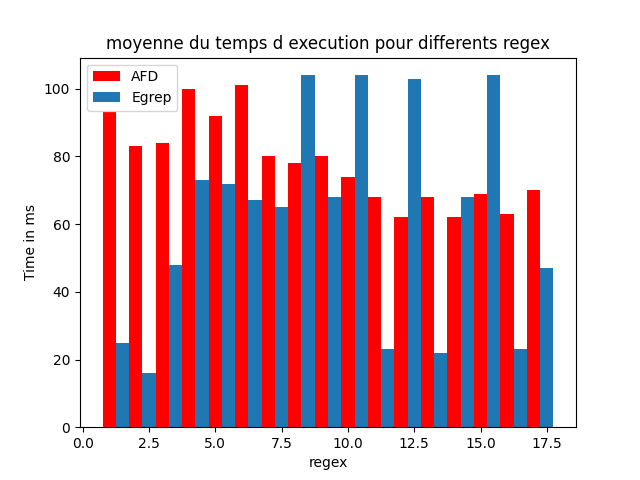
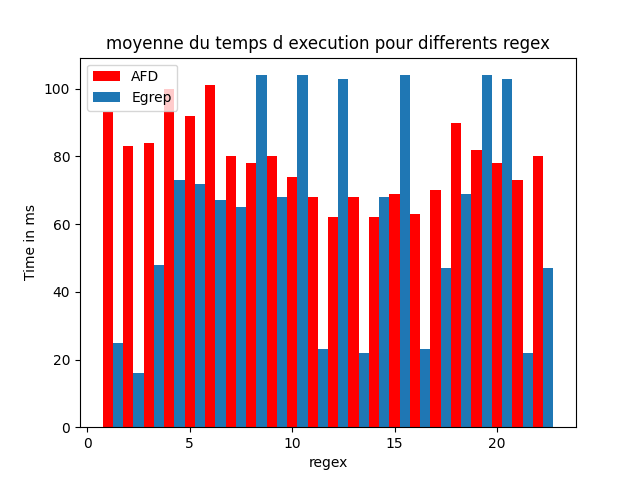
update experimental

Changed region(s): [[0.1562, 0.1562, 0.875, 0.9375], [0.0938, 0.9062, 0.1562, 0.9375]]

diff --git a/tme1/regex/src/main/java/com/daar/reconnaissance/Reconnaissance.java b/tme1/regex/src/main/java/com/daar/reconnaissance/Reconnaissance.java
@@ -81,10 +81,59 @@ public class Reconnaissance{
      */
     public static  void experimental(String fileName,int nbr_dupliquer) {
         //testTailleAutomate();
-
         testDureeRechercheAutomate(fileName,nbr_dupliquer);
     }
 
+    public static  void experimental_avrg(String regex,int nbr_dupliquer) throws IOException {
+        long totale_egrep=0;
+        long totale_afd=0;
+        int nb_files=10;
+        String regEx = regex;
+        long file_size=0;
+        BufferedWriter writer3 = new BufferedWriter(new FileWriter("Results/Time_AFD_average.txt",true));
+        BufferedWriter writer4 = new BufferedWriter(new FileWriter("Results/Time_Egrep_average.txt",true));
+        for (int i= 0; i<nb_files; i++){
+            String file_test="/Users/linaazerouk/Documents/M2/Daar/projet1Daar/DAAR/tme1/regex/Results/test_files/testfile"+i+".txt";     
+            file_size= new File(file_test).length();
+           
+                for (int x=0;x<=nbr_dupliquer; x++){ 
+                    try {
+                        //Time for Egrep
+                        ProcessBuilder processBuilder = new ProcessBuilder("egrep",regEx,file_test);
+                        long startTime = System.currentTimeMillis();
+                        processBuilder.redirectErrorStream(true);
+                        Process process = processBuilder.start();
+                        int exitCode = process.waitFor();
+                        long endTime = System.currentTimeMillis(); 
+                        long executionTime = endTime - startTime;
+                        totale_egrep= executionTime+totale_egrep;
+
+                        //Time for AFD:
+                        long t0 = System.currentTimeMillis();
+                        FileReader fileReader = new FileReader(file_test);
+                        BufferedReader bufferedReader = new BufferedReader(fileReader);
+                        IAutomate automate = new AutomateBuilder().buildFromRegex(regEx);
+                        String ligne;
+                        while ((ligne = bufferedReader.readLine()) != null) {
+                            if (match(ligne, automate))
+                            System.out.println(ligne);
+                        }
+                        bufferedReader.close();
+                        fileReader.close();
+                        long t1 = System.currentTimeMillis()-t0;
+                        totale_afd= t1+totale_afd;
+                    } catch (Exception e) {
+                        e.printStackTrace();
+                    }
+                }
+            
+        }
+        writer3.write(file_size+" "+(totale_afd/nb_files)+ "\n");
+        writer4.write(file_size+ " " +(totale_egrep/nb_files)+ "\n");
+        writer3.close();
+        writer4.close();
+    }
+        
     private static void testDureeRechercheAutomate(String fileName,int nbr_dupliquer) {
         File file = new File(fileName);
         if (!file.exists()) {
@@ -141,28 +190,33 @@ public class Reconnaissance{
 
     private static void testTailleAutomate() {
         try {
-        BufferedWriter writer1 = new BufferedWriter(new FileWriter("size_result_experimental_epsilon.txt"));
-        BufferedWriter writer2= new BufferedWriter(new FileWriter("size_result_experimental_deterministic.txt"));
-        String regex= "ab";
+        BufferedWriter writer1 = new BufferedWriter(new FileWriter("Results/size_result_experimental_epsilon.txt"));
+        BufferedWriter writer2= new BufferedWriter(new FileWriter("Results/size_result_experimental_AFD_non_optimisé.txt"));
+        BufferedWriter writer3= new BufferedWriter(new FileWriter("Results/size_result_experimental_AFD_optimise.txt"));
+
+        String regex= "c|d*c";
         RegexParser parser = new RegexParser();
         int numPoints = 10;
         int[] yPoints_epsilon= new int[numPoints];
         int[] yPoints_deterministic= new int[numPoints];
-
+        int [] yPoints_deterministic_optimized= new int[numPoints];
         //TEST: pour la taille des automates
-        for (int x = 0; x <10; x++) {
+        for (int x = 0; x <numPoints; x++) {
             try {
             RegExTree regexTree = parser.parse(regex);
             IAutomate automateWithEpsilonTransitions = regexTree.toAutomate();
             yPoints_epsilon[x] =automateWithEpsilonTransitions.size(); 
             
             AutomatetoTab regexTable = new AutomatetoTab();
-            IAutomate deterministicAutomate = regexTable.determinizeAutomate(automateWithEpsilonTransitions);
-            yPoints_deterministic[x] =deterministicAutomate.size();
+            IAutomate AFD = regexTable.determinizeAutomate(automateWithEpsilonTransitions);
+            yPoints_deterministic[x] =AFD.size();
 
-            regex=regex+regex;
+            AFD.optimize();
+            yPoints_deterministic_optimized[x] = AFD.size();
+            regex=regex+"*"+regex;
             writer1.write(yPoints_epsilon[x] + "\n");
             writer2.write(yPoints_deterministic[x] + "\n");
+            writer3.write(yPoints_deterministic_optimized[x] + "\n");
 
         } catch (Exception e) {
                 e.printStackTrace();
@@ -170,7 +224,8 @@ public class Reconnaissance{
         }
         writer1.close();
         writer2.close();
-         } catch (IOException e) {
+        writer3.close();
+        } catch (IOException e) {
             e.printStackTrace();
         }
     }

diff --git a/tme1/regex/src/main/java/com/daar/App.java b/tme1/regex/src/main/java/com/daar/App.java
@@ -1,19 +1,32 @@
 package com.daar;
 
+import java.util.ArrayList;
+
 import com.daar.reconnaissance.Reconnaissance;
 
 public class App {
     // private static final Logger LOGGER = Logger.getLogger(App.class.getName());
 
     public static void main(String[] args) throws Exception {
-        String regEx = "S(a|g|r)+on";
+        String regEx = "S(a|g|r)*on";
         //Reconnaissance.search("note.txt", regEx);
+        //Exp: time file size
         int nbr_dupliquer=0;
         //String file_test="note.txt";
         //Reconnaissance.experimental(file_test,nbr_dupliquer);
-        for (int i=1; i<50; i++){
-            String file_test="/Users/linaazerouk/Documents/M2/Daar/projet1Daar/DAAR/tme1/regex/Results/test_files/testfile"+i+".txt";
-            Reconnaissance.experimental(file_test, nbr_dupliquer);
+
+        //Exp: time file temps d'execution
+        for (int i=1; i<10; i++){
+           //String file_test="/Users/linaazerouk/Documents/M2/Daar/projet1Daar/DAAR/tme1/regex/Results/test_files/testfile"+i+".txt";
+           //Reconnaissance.experimental(file_test, nbr_dupliquer);
+        }
+
+        //Exp: time file et moyenne temps d'execution
+        final String[] liste = {"S(a|g|r)*on", "s*c+d+e+s*","((R+e)|(m+a))on", "Hello", "((sa)+(ph))+"};
+        for (String element : liste) {
+            System.out.println(element);
+            Reconnaissance.experimental_avrg(element,nbr_dupliquer);
+    
         }
     }
 }

diff --git a/tme1/regex/src/main/java/com/daar/automate/Automate.java b/tme1/regex/src/main/java/com/daar/automate/Automate.java
@@ -341,22 +341,21 @@ public class Automate implements IAutomate {
         return this.sizeAux(this, new HashSet<Integer>());
     }
 
-    private int sizeAux(IAutomate automate,Set<Integer> visited2) {
-       
-        if (visited2.contains(automate.getId())) {
+    private int sizeAux(IAutomate automate,Set<Integer> visited) {
+        if (visited.contains(automate.getId())) {
             return 0;
         }else {
             int count = 1;
-            visited2.add(automate.getId());
+            visited.add(automate.getId());
             //this.
             
             for (Map.Entry<Character, IAutomate> entry : automate.getTransitions().entrySet()) {
                 IAutomate transition = entry.getValue();
-                count += sizeAux(transition, visited2);
+                count += sizeAux(transition, visited);
             }
 
             for (IAutomate automateLocal : automate.getEmptyTransitions()) {
-                count += sizeAux(automateLocal, visited2);
+                count += sizeAux(automateLocal, visited);
             }
 
             return count;
